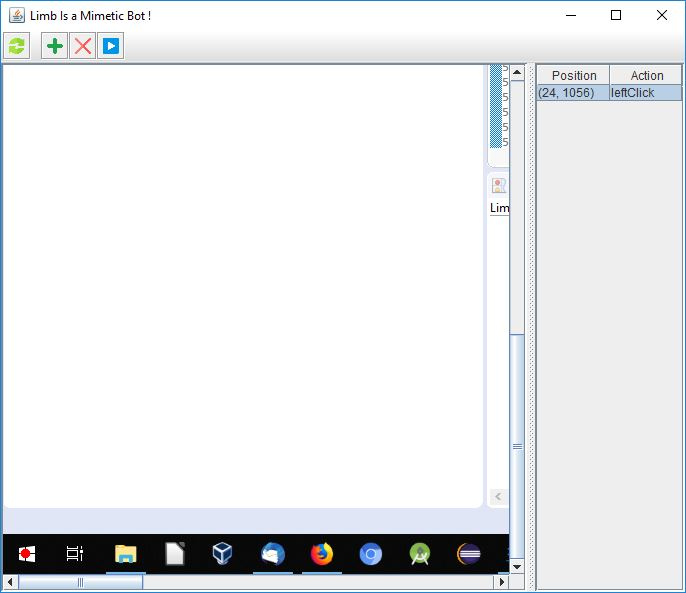
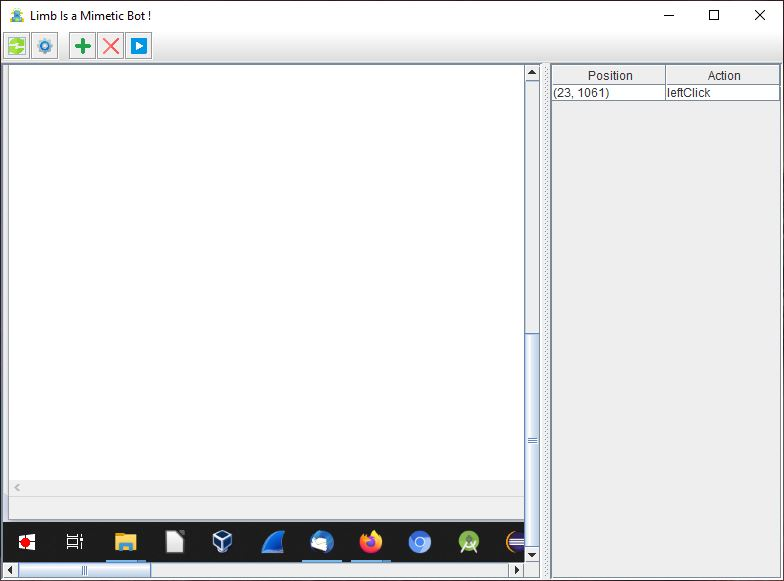
Add delay setting dialog

Changed region(s): [[0.0, 0.0, 1.0, 1.0]]

diff --git a/src/gui/ToolBar.java b/src/gui/ToolBar.java
@@ -10,8 +10,13 @@ import java.net.URL;
 
 import javax.swing.ImageIcon;
 import javax.swing.JButton;
+import javax.swing.JComponent;
+import javax.swing.JLabel;
 import javax.swing.JOptionPane;
+import javax.swing.JSlider;
 import javax.swing.JToolBar;
+import javax.swing.event.ChangeEvent;
+import javax.swing.event.ChangeListener;
 
 import engine.Bot;
 
@@ -21,10 +26,9 @@ import engine.Bot;
 public class ToolBar extends JToolBar implements ActionListener {
 	
 	/**
-	 * Icons made by "https://www.flaticon.com/authors/smashicons" from "https://www.flaticon.com/" is licensed by CC 3.0 BY
-	 * Icons made by "https://www.freepik.com/" from "https://www.flaticon.com/" is licensed by CC 3.0 BY
+	 * Icons made from "https://www.flaticon.com/" is licensed by CC 3.0 BY
 	 */
-	private JButton btnAddAction, btnRefreshScreenCapture, btnRemove, btnRun;
+	private JButton btnAddAction, btnRefreshScreenCapture, btnRemove, btnRun, btnSettings;
 	private Bot limb;
 	private ScreenSelection screenSelection;
 	private TableAction tableAction;
@@ -52,8 +56,10 @@ public class ToolBar extends JToolBar implements ActionListener {
 		btnRefreshScreenCapture = new JButton();
 		btnRemove = new JButton();
 		btnRun = new JButton();
+		btnSettings = new JButton();
 
 		addButton(btnRefreshScreenCapture, getClass().getResource("/icons/refresh.png"), "Refresh screen capture", "Refresh screen", "refresh");
+		addButton(btnSettings, getClass().getResource("/icons/settings.png"), "Configure the bot", "Configure the bot", "settings");
 		addSeparator();
 		addButton(btnAddAction, getClass().getResource("/icons/add.png"), "Add action", "Add action", "add");
 		addButton(btnRemove, getClass().getResource("/icons/remove.png"), "Remove action", "Remove action", "remove");
@@ -86,7 +92,7 @@ public class ToolBar extends JToolBar implements ActionListener {
 			break;
 		case "run":
 			try {
-				int niter = Integer.parseInt(JOptionPane.showInputDialog("Select n iteration"));
+				int niter = Integer.parseInt(JOptionPane.showInputDialog(this.getParent(), "Select n iteration"));
 				tableAction.executeAction(niter);
 			} catch (Exception e2) {
 				System.err.println(e2.getMessage());
@@ -95,6 +101,54 @@ public class ToolBar extends JToolBar implements ActionListener {
 		case "refresh":
 			Dimension dim = Toolkit.getDefaultToolkit().getScreenSize();
 			screenSelection.setImage(limb.doScreenCapture(new Rectangle(dim)));
+			break;
+		case "settings":
+			String format = "Delay %s (%d ms)";
+			JLabel lblIteration = new JLabel(String.format(format, "iteration", Bot.DELAY_ITERATION));
+			JLabel lblAction = new JLabel(String.format(format, "action", Bot.DELAY_ACTION));
+			JLabel lblKeyboard = new JLabel(String.format(format, "keyboard", Bot.DELAY_KEYBOARD));
+			
+			JSlider slideIteration = new JSlider(50, 1000, Bot.DELAY_ITERATION);
+			JSlider slideAction = new JSlider(20, 1000, Bot.DELAY_ACTION);
+			JSlider slideKeyboard = new JSlider(20, 1000, Bot.DELAY_KEYBOARD);
+
+			//slideIteration.setExtent(5);
+			//slideAction.setExtent(5);
+			//slideKeyboard.setExtent(5);
+			
+			slideIteration.addChangeListener(new ChangeListener() {
+				@Override
+				public void stateChanged(ChangeEvent e) {
+					lblIteration.setText(String.format(format, "iteration", slideIteration.getValue()));
+				}
+			});
+			slideAction.addChangeListener(new ChangeListener() {
+				@Override
+				public void stateChanged(ChangeEvent e) {
+					lblAction.setText(String.format(format, "action", slideAction.getValue()));
+				}
+			});
+			slideKeyboard.addChangeListener(new ChangeListener() {
+				@Override
+				public void stateChanged(ChangeEvent e) {
+					lblKeyboard.setText(String.format(format, "keyboard", slideKeyboard.getValue()));
+				}
+			});
+
+			JComponent[] settings = new JComponent[] {
+			        lblIteration,
+			        slideIteration,
+			        lblAction,
+			        slideAction,
+			        lblKeyboard,
+			        slideKeyboard
+			};
+			int result = JOptionPane.showConfirmDialog(this.getParent(), settings, "Bot delay settings", JOptionPane.PLAIN_MESSAGE);
+			if (result == JOptionPane.OK_OPTION) {
+			    Bot.DELAY_ITERATION = slideIteration.getValue();
+			    Bot.DELAY_ACTION = slideAction.getValue();
+			    Bot.DELAY_KEYBOARD = slideKeyboard.getValue();
+			}
 			break;
 		default:
 			break;

diff --git a/README.md b/README.md
@@ -24,7 +24,7 @@ To run, just click on the run button and type the number of wanted iteration.
 
 ## Icons
 
-Bot icon made by [Freepik](https://www.freepik.com/) from [Flaticon](www.flaticon.com)  
+Bot and Settings icon made by [Freepik](https://www.freepik.com/) from [Flaticon](www.flaticon.com)  
 Add and Run icon made by [Smashicons](https://www.flaticon.com/authors/smashicons) from [Flaticon](www.flaticon.com)  
 Refresh icon made by [Pixel Buddha](https://www.flaticon.com/authors/pixel-buddha) from [Flaticon](www.flaticon.com)  
 Remove icon made by [Pixelmeetup](https://www.flaticon.com/authors/pixelmeetup) from [Flaticon](www.flaticon.com)
